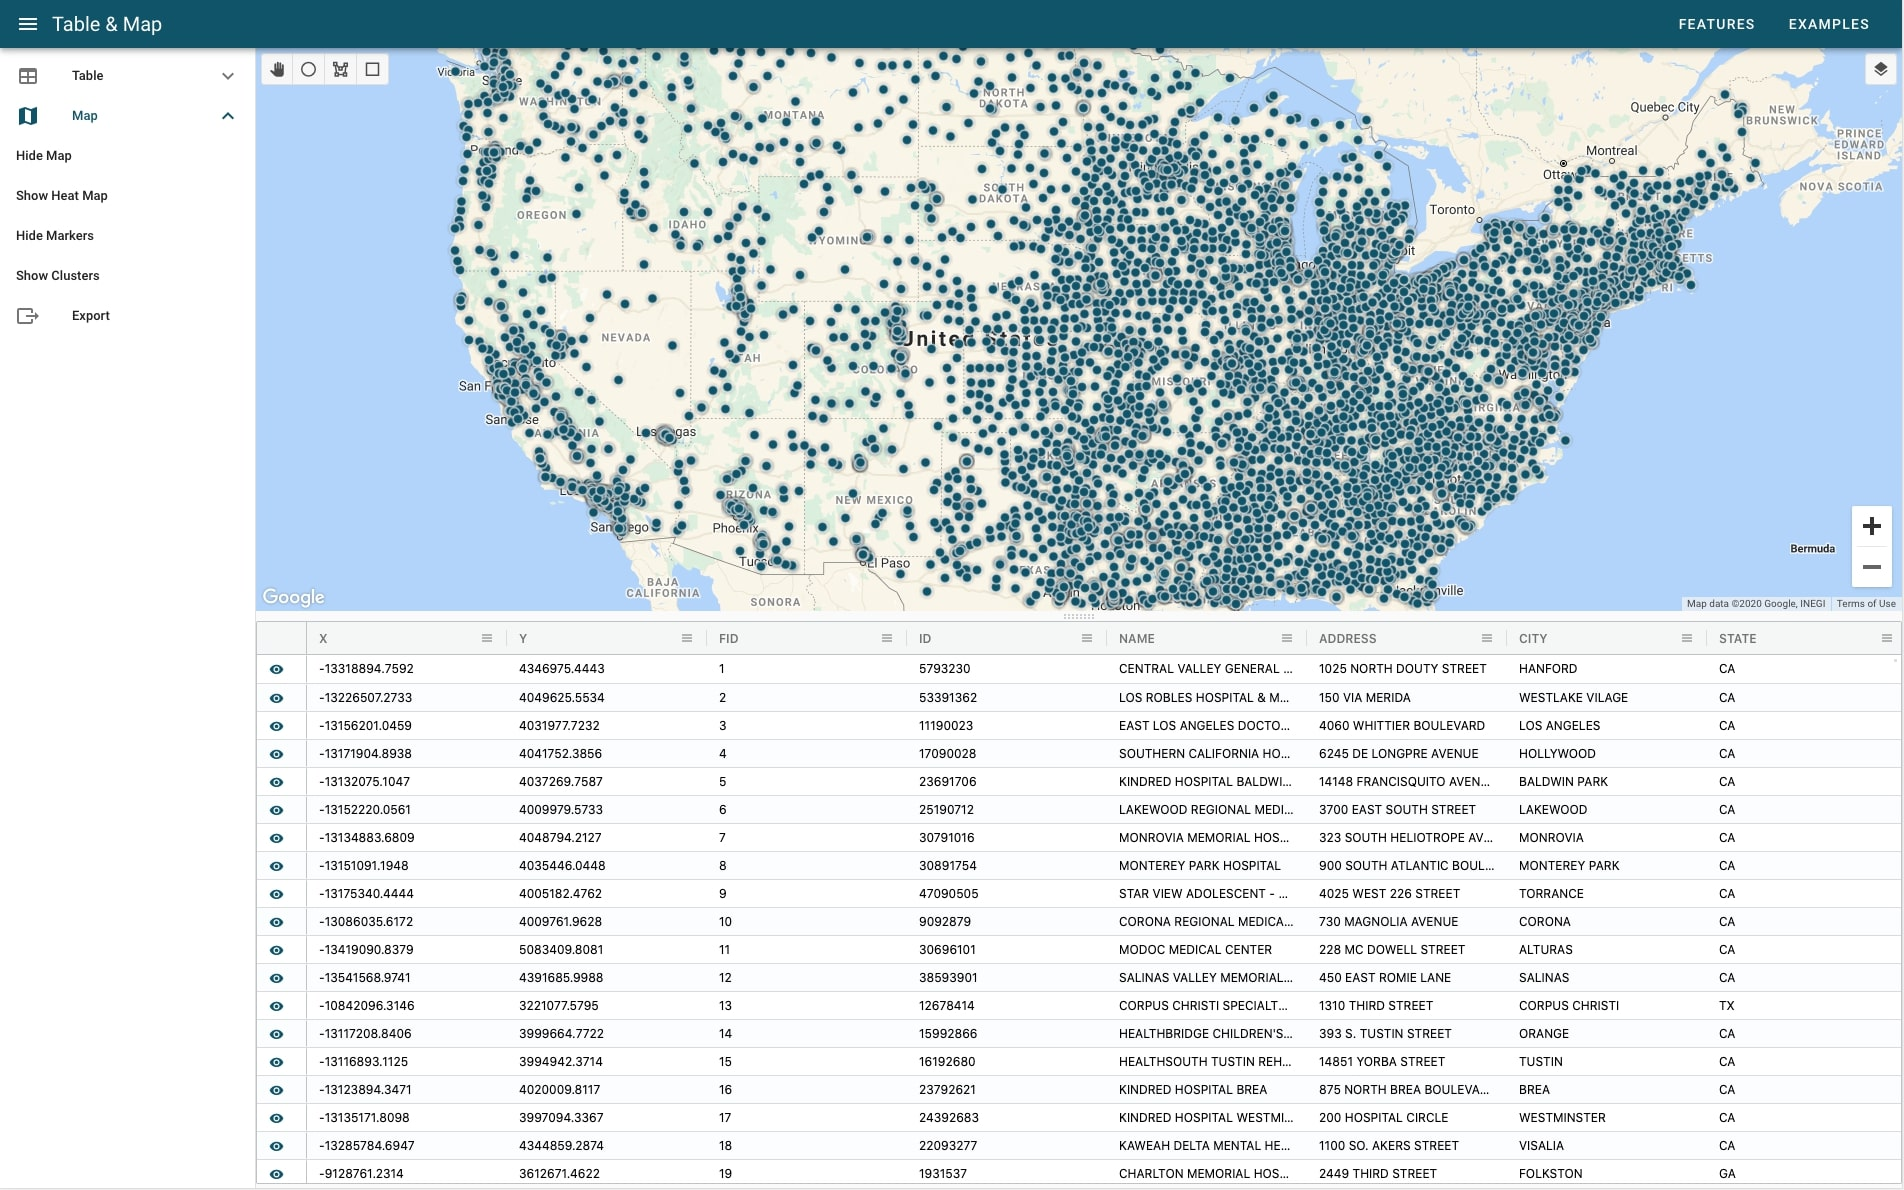
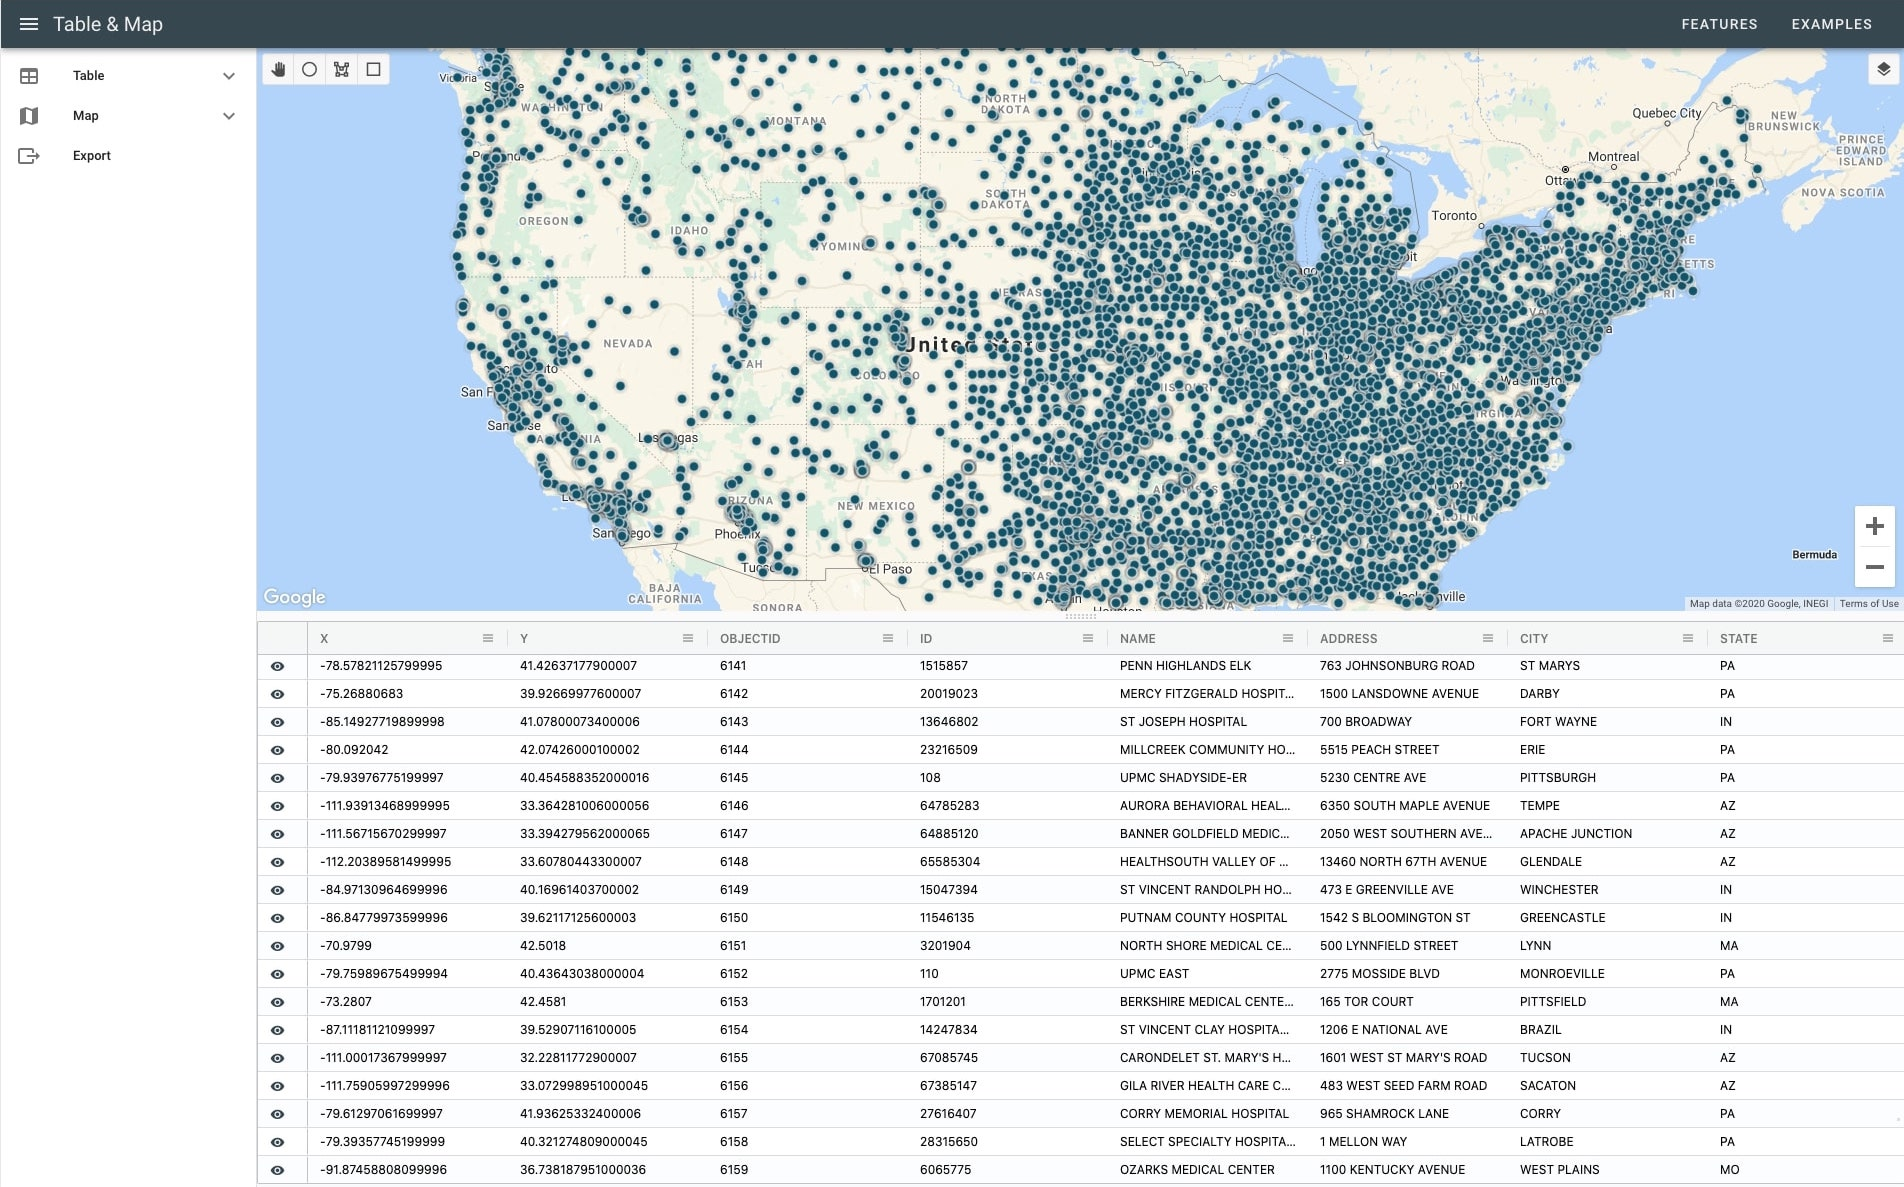
Update app image

Changed region(s): [[0.0, 0.0, 1.0, 1.0], [0.0, 0.1247, 0.062, 0.2805]]

diff --git a/src/components/Home/Preview/Preview.vue b/src/components/Home/Preview/Preview.vue
@@ -3,7 +3,7 @@
     <g transform="matrix(0.973, 0, 0, 1.050, 7, -34)">
       <image :href="require('@/assets/app.jpg')" height="100%" width="100%" />
     </g>
-    <g transform="matrix(0.726111, 0, 0, 0.726111, -204.882904, -3.269498)">
+    <g transform="matrix(0.726111, 0, 0, 0.726111, -203.982904, -3.269498)">
       <path
         d="M 570.200012 464.600006 H 688.600014 V 538.500008 H 570.200012 V 464.600006 Z"
         class="st322"
